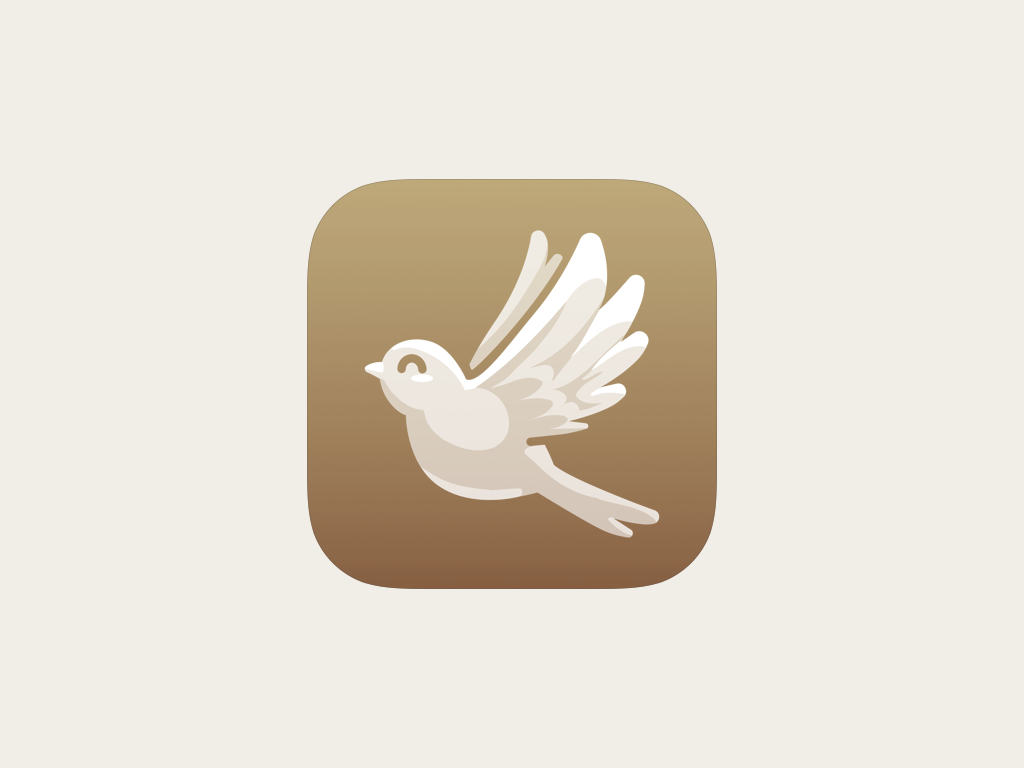
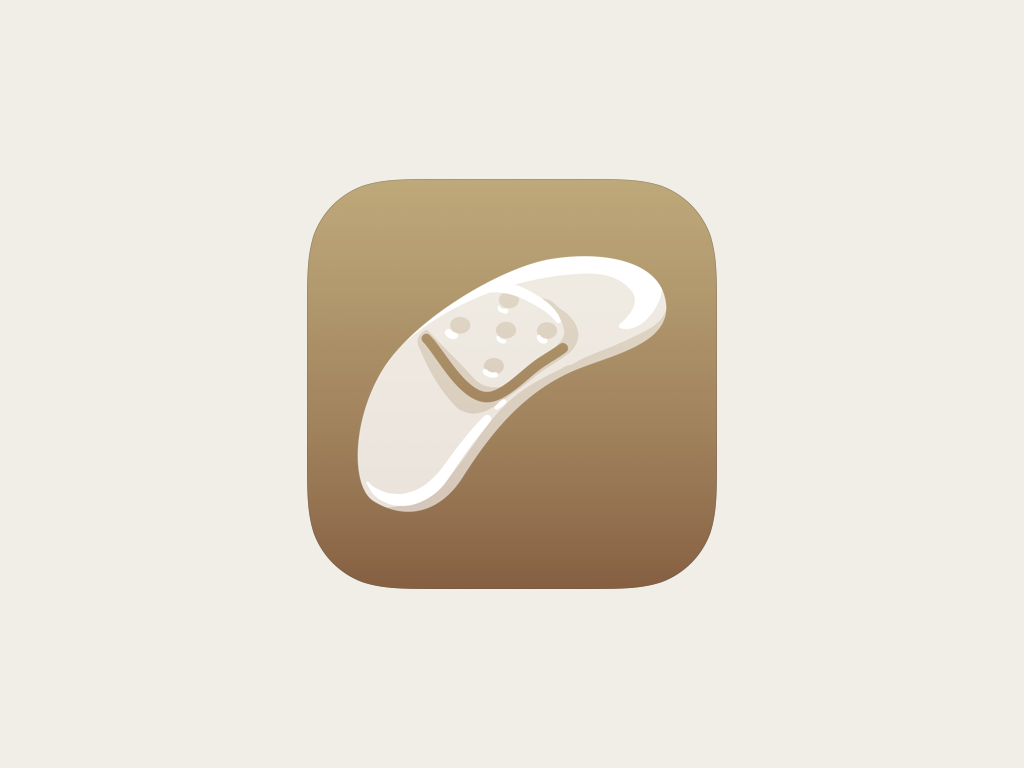
Add glow button effect to IBD Knower

Changed region(s): [[0.3438, 0.2812, 0.6562, 0.7188]]

diff --git a/IBD Knower.swiftpm/Package.swift b/IBD Knower.swiftpm/Package.swift
@@ -8,17 +8,17 @@ import PackageDescription
 import AppleProductTypes
 
 let package = Package(
-    name: "我的 App",
+    name: "IBD Knower",
     platforms: [
         .iOS("17.0")
     ],
     products: [
         .iOSApplication(
-            name: "我的 App",
+            name: "IBD Knower",
             targets: ["AppModule"],
             displayVersion: "1.0",
             bundleVersion: "1",
-            appIcon: .placeholder(icon: .bird),
+            appIcon: .placeholder(icon: .bandage),
             accentColor: .presetColor(.brown),
             supportedDeviceFamilies: [
                 .pad,
@@ -29,7 +29,8 @@ let package = Package(
                 .landscapeRight,
                 .landscapeLeft,
                 .portraitUpsideDown(.when(deviceFamilies: [.pad]))
-            ]
+            ],
+            appCategory: .medical
         )
     ],
     dependencies: [

diff --git a/IBD Knower.swiftpm/Introduction/Selection/SelectionView.swift b/IBD Knower.swiftpm/Introduction/Selection/SelectionView.swift
@@ -1,4 +1,5 @@
 import SwiftUI
+import Pow
 
 struct SelectionView: View {
     @EnvironmentObject var selectStatus: SelectStatus
@@ -195,6 +196,13 @@ struct SelectionView: View {
                     .onTapGesture {
                         selectStatus.setStatus(newStatus: .DETAIL)
                     }
+                    .conditionalEffect(
+                        .repeat(
+                            .glow(color: .yellow, radius: 65), 
+                            every: 1.5
+                        ), 
+                        condition: true
+                    )
             }
         }
     }
